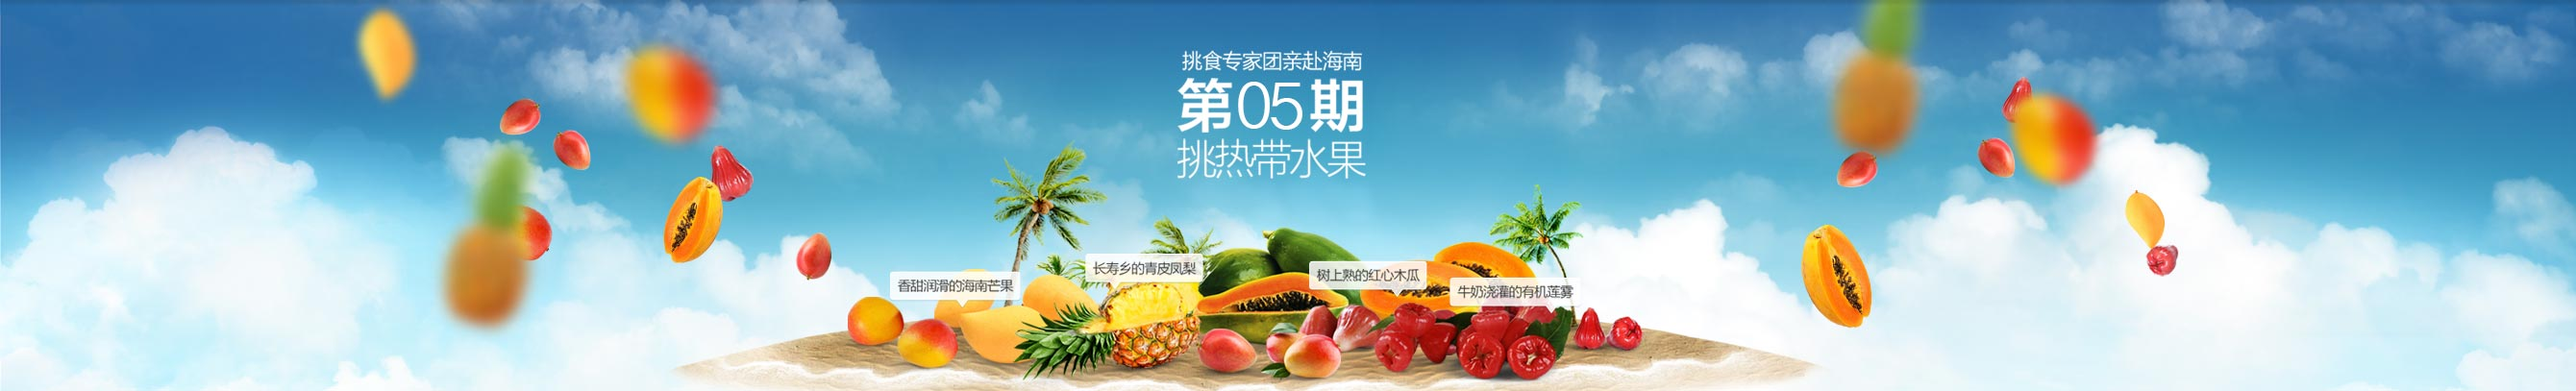
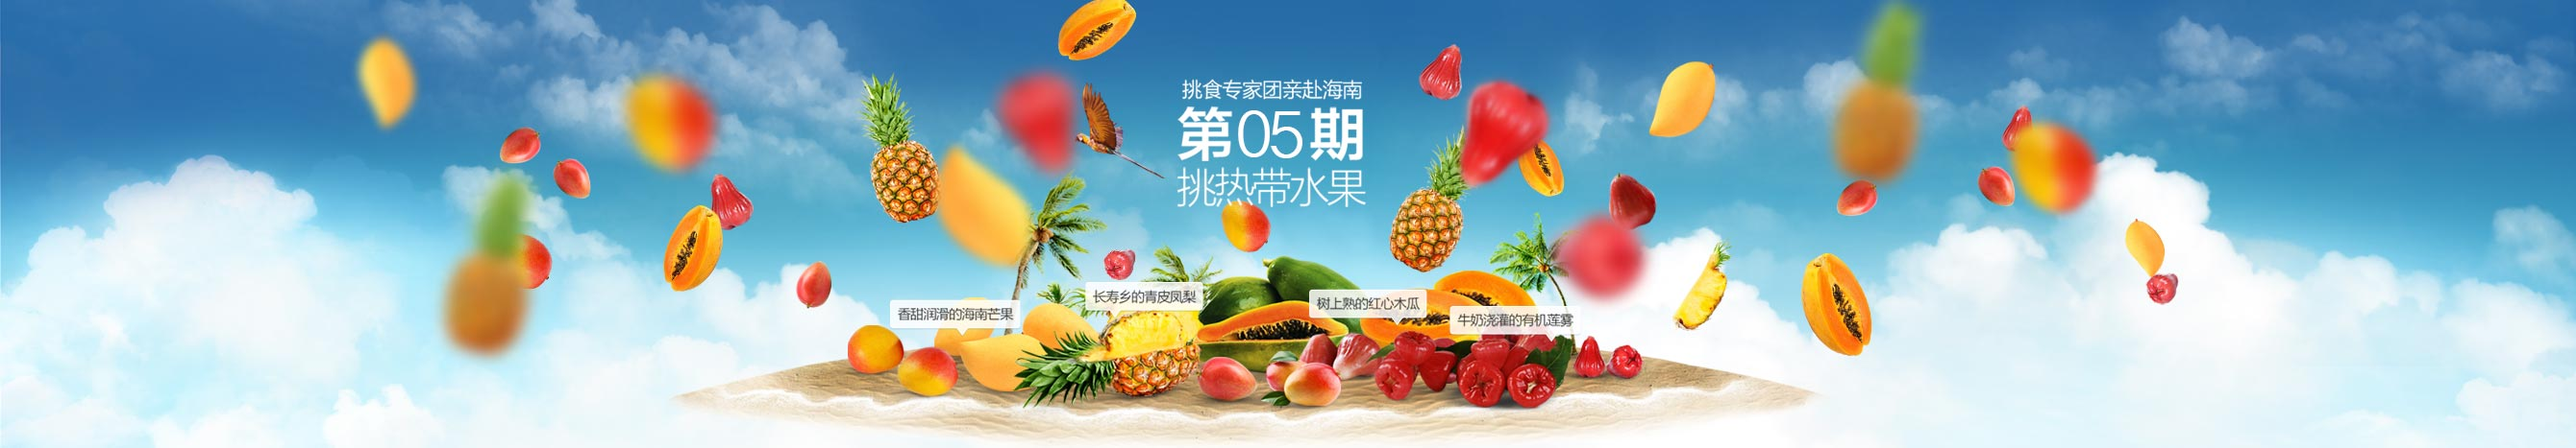
动画中增加了没有美感的动画

diff --git a/1.0/build/index-min.js b/1.0/build/index-min.js
@@ -1,2 +1,2 @@
-/*!build time : 2014-05-26 8:34:28 PM*/
-KISSY.add("gallery/parallax/1.0/helpers",["dom"],function(a,b,c,d){function e(a){for(var b=document.createElement("div"),c=!1,d=null,e=!1,f=null,g=null,i=0,j=h.length;j>i;i++)if(null!==h[i]?(f=h[i][0]+"transform",g=h[i][1]+"Transform"):(f="transform",g="transform"),void 0!==b.style[g]){c=!0;break}switch(a){case"2D":e=c;break;case"3D":if(c){var k=document.body||document.createElement("body"),l=document.documentElement,m=l.style.overflow;document.body||(l.style.overflow="hidden",l.appendChild(k),k.style.overflow="hidden",k.style.background=""),k.appendChild(b),b.style[g]="translate3d(1px,1px,1px)",d=window.getComputedStyle(b).getPropertyValue(f),e=void 0!==d&&d.length>0&&"none"!==d,l.style.overflow=m,k.removeChild(b)}}return e}function f(a){for(var b=0,c=a.length;c>b;b++){var d=a[b];g.css(d,"transform","translate3d(0,0,0)"),g.css(d,"transform-style","preserve-3d"),g.css(d,"backface-visibility","hidden")}}var g=b("dom"),h=[null,["-webkit-","webkit"],["-moz-","Moz"],["-o-","O"],["-ms-","ms"]];d.exports.transformSupport=e,d.exports.accelerate3D=f;var i,j;!function(){for(var a=0,b=["ms","moz","webkit","o"],c=window.requestAnimationFrame,d=window.cancelAnimationFrame,e=0;e<b.length&&!c;++e)c=window[b[e]+"RequestAnimationFrame"],d=window[b[e]+"CancelAnimationFrame"]||window[b[e]+"CancelRequestAnimationFrame"];i=c||function(b){var c=(new Date).getTime(),d=Math.max(0,16-(c-a)),e=window.setTimeout(function(){b(c+d)},d);return a=c+d,e},j=d||function(a){clearTimeout(a)}}(),d.exports.requestAnimationFrame=i,d.exports.cancelAnimationFrame=j}),KISSY.add("gallery/parallax/1.0/index",["node","dom","event","./helpers"],function(a,b){"use strict";function c(b,c){{var d=a.all(b);this.element=d[0]}this.$context=d,this.$layers=this.$context.all(".layer"),a.mix(this,a.mix(a.clone(g),c)),this.calibrationTimer=null,this.enabled=!1,this.depths=[],this.raf=null,this.bounds=null,this.ex=0,this.ey=0,this.ew=0,this.eh=0,this.ecx=0,this.ecy=0,this.erx=0,this.ery=0,this.ix=0,this.iy=0,this.mx=0,this.my=0,this.vx=0,this.vy=0,this.onMouseMove=a.bind(this.onMouseMove,this),this.onWindowResize=a.bind(this.onWindowResize,this),this.onAnimationFrame=a.bind(this.onAnimationFrame,this),this.initialise()}var d=(b("node"),b("dom")),e=b("event"),f=b("./helpers"),g={calibrationDelay:500,scalarX:10,scalarY:10,frictionX:.1,frictionY:.1,originX:.5,originY:.5},h=f.requestAnimationFrame,i=f.cancelAnimationFrame;return c.prototype.ww=null,c.prototype.wh=null,c.prototype.wcx=null,c.prototype.wcy=null,c.prototype.wrx=null,c.prototype.wry=null,c.prototype.transform2DSupport=f.transformSupport("2D"),c.prototype.transform3DSupport=f.transformSupport("3D"),c.prototype.initialise=function(){"static"===this.$context.css("position")&&this.$context.css({position:"relative"}),f.accelerate3D(this.$context),this.updateLayers(),this.updateDimensions(),this.enable(),this.queueCalibration(this.calibrationDelay)},c.prototype.updateLayers=function(){this.$layers=this.$context.all(".layer"),this.depths=[],this.$layers.css({position:"absolute",display:"block",left:0,top:0}),this.$layers.slice(0,1).css({position:"relative"}),f.accelerate3D(this.$layers),this.$layers.each(a.bind(function(b){var c=parseFloat(a.all(b).attr("data-depth"),10);this.depths.push(c||0)},this))},c.prototype.updateDimensions=function(){this.ww=window.innerWidth,this.wh=window.innerHeight,this.wcx=this.ww*this.originX,this.wcy=this.wh*this.originY,this.wrx=Math.max(this.wcx,this.ww-this.wcx),this.wry=Math.max(this.wcy,this.wh-this.wcy)},c.prototype.updateBounds=function(){this.bounds=this.element.getBoundingClientRect(),this.ex=this.bounds.left,this.ey=this.bounds.top,this.ew=this.bounds.width,this.eh=this.bounds.height,this.ecx=this.ew*this.originX,this.ecy=this.eh*this.originY,this.erx=Math.max(this.ecx,this.ew-this.ecx),this.ery=Math.max(this.ecy,this.eh-this.ecy)},c.prototype.queueCalibration=function(a){clearTimeout(this.calibrationTimer),this.calibrationTimer=setTimeout(this.onCalibrationTimer,a)},c.prototype.enable=function(){this.enabled||(this.enabled=!0,e.on(window,"mousemove",this.onMouseMove),e.on(window,"resize",this.onWindowResize),this.raf=h(this.onAnimationFrame))},c.prototype.disable=function(){this.enabled&&(this.enabled=!1,window.removeEventListener("mousemove",this.onMouseMove),window.removeEventListener("resize",this.onWindowResize),i(this.raf))},c.prototype.setPosition=function(a,b,c){b+="px",c+="px",this.transform3DSupport?d.css(a,"transform","translate3d("+b+","+c+",0)"):this.transform2DSupport?d.css(a,"transform","translate("+b+","+c+")"):(a.style.left=b,a.style.top=c)},c.prototype.onWindowResize=function(){this.updateDimensions()},c.prototype.onAnimationFrame=function(){this.updateBounds(),this.mx=this.ix*this.ew*(this.scalarX/100)*-1,this.my=this.iy*this.eh*(this.scalarY/100)*-1,this.vx+=(this.mx-this.vx)*this.frictionX,this.vy+=(this.my-this.vy)*this.frictionY;for(var a=0,b=this.$layers.length;b>a;a++){var c=this.depths[a],d=this.$layers[a],e=this.vx*c,f=this.vy*c;this.setPosition(d,e,f)}this.raf=h(this.onAnimationFrame)},c.prototype.onMouseMove=function(a){var b=a.clientX,c=a.clientY;this.ix=(b-this.wcx)/this.wrx,this.iy=(c-this.wcy)/this.wry},c});
+/*!build time : 2014-05-26 11:45:19 PM*/
+KISSY.add("gallery/parallax/1.0/helpers",["dom"],function(a,b,c,d){function e(a){for(var b=document.createElement("div"),c=!1,d=null,e=!1,f=null,g=null,i=0,j=h.length;j>i;i++)if(null!==h[i]?(f=h[i][0]+"transform",g=h[i][1]+"Transform"):(f="transform",g="transform"),void 0!==b.style[g]){c=!0;break}switch(a){case"2D":e=c;break;case"3D":if(c){var k=document.body||document.createElement("body"),l=document.documentElement,m=l.style.overflow;document.body||(l.style.overflow="hidden",l.appendChild(k),k.style.overflow="hidden",k.style.background=""),k.appendChild(b),b.style[g]="translate3d(1px,1px,1px)",d=window.getComputedStyle(b).getPropertyValue(f),e=void 0!==d&&d.length>0&&"none"!==d,l.style.overflow=m,k.removeChild(b)}}return e}function f(a){for(var b=0,c=a.length;c>b;b++){var d=a[b];g.css(d,"transform","translate3d(0,0,0)"),g.css(d,"transform-style","preserve-3d"),g.css(d,"backface-visibility","hidden")}}var g=b("dom"),h=[null,["-webkit-","webkit"],["-moz-","Moz"],["-o-","O"],["-ms-","ms"]];d.exports.transformSupport=e,d.exports.accelerate3D=f;var i,j;!function(){for(var a=0,b=["ms","moz","webkit","o"],c=window.requestAnimationFrame,d=window.cancelAnimationFrame,e=0;e<b.length&&!c;++e)c=window[b[e]+"RequestAnimationFrame"],d=window[b[e]+"CancelAnimationFrame"]||window[b[e]+"CancelRequestAnimationFrame"];i=c||function(b){var c=(new Date).getTime(),d=Math.max(0,16-(c-a)),e=window.setTimeout(function(){b(c+d)},d);return a=c+d,e},j=d||function(a){clearTimeout(a)}}(),d.exports.requestAnimationFrame=i,d.exports.cancelAnimationFrame=j}),KISSY.add("gallery/parallax/1.0/index",["node","dom","event","./helpers"],function(a,b){"use strict";function c(b,c){{var d=a.all(b);this.element=d[0]}this.$context=d,this.$layers=this.$context.all(".layer"),a.mix(this,a.mix(a.clone(g),c)),this.calibrationTimer=null,this.enabled=!1,this.layersCache=[],this.raf=null,this.bounds=null,this.ex=0,this.ey=0,this.ew=0,this.eh=0,this.ecx=0,this.ecy=0,this.erx=0,this.ery=0,this.ix=0,this.iy=0,this.mx=0,this.my=0,this.vx=0,this.vy=0,this.onMouseMove=a.bind(this.onMouseMove,this),this.onWindowResize=a.bind(this.onWindowResize,this),this.onAnimationFrame=a.bind(this.onAnimationFrame,this),this.initialise()}var d=(b("node"),b("dom")),e=b("event"),f=b("./helpers"),g={calibrationDelay:500,scalarX:10,scalarY:10,frictionX:.1,frictionY:.1,originX:.5,originY:.5},h=f.requestAnimationFrame,i=f.cancelAnimationFrame;return c.prototype.ww=null,c.prototype.wh=null,c.prototype.wcx=null,c.prototype.wcy=null,c.prototype.wrx=null,c.prototype.wry=null,c.prototype.transform2DSupport=f.transformSupport("2D"),c.prototype.transform3DSupport=f.transformSupport("3D"),c.prototype.initialise=function(){"static"===this.$context.css("position")&&this.$context.css({position:"relative"}),f.accelerate3D(this.$context),this.updateLayers(),this.updateDimensions(),this.enable(),this.queueCalibration(this.calibrationDelay)},c.prototype.updateLayers=function(){this.$layers=this.$context.all(".layer"),this.layersCache=[],this.$layers.css({position:"absolute",display:"block",left:0,top:0}),this.$layers.slice(0,1).css({position:"relative"}),f.accelerate3D(this.$layers),this.$layers.each(a.bind(function(b){var c=a.all(b),d=parseFloat(c.attr("data-depth"),10),e=parseFloat(c.attr("data-limit-y"),10),f=parseFloat(c.attr("data-limit-x"),10);this.layersCache.push({depth:d||0,limitY:e||null,limitX:f||null})},this))},c.prototype.updateDimensions=function(){this.ww=window.innerWidth,this.wh=window.innerHeight,this.wcx=this.ww*this.originX,this.wcy=this.wh*this.originY,this.wrx=Math.max(this.wcx,this.ww-this.wcx),this.wry=Math.max(this.wcy,this.wh-this.wcy)},c.prototype.updateBounds=function(){this.bounds=this.element.getBoundingClientRect(),this.ex=this.bounds.left,this.ey=this.bounds.top,this.ew=this.bounds.width,this.eh=this.bounds.height,this.ecx=this.ew*this.originX,this.ecy=this.eh*this.originY,this.erx=Math.max(this.ecx,this.ew-this.ecx),this.ery=Math.max(this.ecy,this.eh-this.ecy)},c.prototype.queueCalibration=function(a){clearTimeout(this.calibrationTimer),this.calibrationTimer=setTimeout(this.onCalibrationTimer,a)},c.prototype.enable=function(){this.enabled||(this.enabled=!0,e.on(window,"mousemove",this.onMouseMove),e.on(window,"resize",this.onWindowResize),this.raf=h(this.onAnimationFrame))},c.prototype.disable=function(){this.enabled&&(this.enabled=!1,window.removeEventListener("mousemove",this.onMouseMove),window.removeEventListener("resize",this.onWindowResize),i(this.raf))},c.prototype.setPosition=function(a,b,c){b+="px",c+="px",this.transform3DSupport?d.css(a,"transform","translate3d("+b+","+c+",0)"):this.transform2DSupport?d.css(a,"transform","translate("+b+","+c+")"):(a.style.left=b,a.style.top=c)},c.prototype.onWindowResize=function(){this.updateDimensions()},c.prototype.onAnimationFrame=function(){this.updateBounds(),this.mx=this.ix*this.ew*(this.scalarX/100)*-1,this.my=this.iy*this.eh*(this.scalarY/100)*-1;var a=(this.mx-this.vx)*this.frictionX,b=(this.my-this.vy)*this.frictionY;if(this.vx+=a,this.vy+=b,Math.abs(a)>.01&&Math.abs(b)>.01)for(var c=0,d=this.$layers.length;d>c;c++){var e=this.layersCache[c].depth,f=this.layersCache[c].limitX,g=this.layersCache[c].limitY,i=this.$layers[c],j=this.vx*e,k=this.vy*e;f&&j>0&&(j=Math.min(f,j)),f&&0>j&&(j=Math.max(-f,j)),g&&k>0&&(k=Math.min(g,k)),g&&0>k&&(k=Math.max(-g,k)),this.setPosition(i,j,k)}this.raf=h(this.onAnimationFrame)},c.prototype.onMouseMove=function(a){var b=a.clientX,c=a.clientY;this.ix=(b-this.wcx)/this.wrx,this.iy=(c-this.wcy)/this.wry},c});

diff --git a/1.0/build/index.js b/1.0/build/index.js
@@ -147,7 +147,7 @@ KISSY.add('gallery/parallax/1.0/index',['node', 'dom', 'event', './helpers'], fu
         // States
         this.calibrationTimer = null;
         this.enabled = false;
-        this.depths = [];
+        this.layersCache = [];
         this.raf = null;
 
         // Element Bounds
@@ -219,7 +219,7 @@ KISSY.add('gallery/parallax/1.0/index',['node', 'dom', 'event', './helpers'], fu
 
         // Cache Layer Elements
         this.$layers = this.$context.all('.layer');
-        this.depths = [];
+        this.layersCache = [];
 
         // Configure Layer Styles
         this.$layers.css({
@@ -237,8 +237,15 @@ KISSY.add('gallery/parallax/1.0/index',['node', 'dom', 'event', './helpers'], fu
 
         // Cache Depths
         this.$layers.each(S.bind(function (element, index) {
-            var depth = parseFloat(S.all(element).attr('data-depth'), 10);
-            this.depths.push(depth || 0);
+            var $ele = S.all(element);
+            var depth = parseFloat($ele.attr('data-depth'), 10);
+            var limitY = parseFloat($ele.attr('data-limit-y'), 10);
+            var limitX = parseFloat($ele.attr('data-limit-x'), 10);
+            this.layersCache.push({
+                depth  : depth||0,
+                limitY : limitY||null,
+                limitX : limitX||null
+            });
         }, this));
     };
 
@@ -310,15 +317,37 @@ KISSY.add('gallery/parallax/1.0/index',['node', 'dom', 'event', './helpers'], fu
         this.mx = this.ix * this.ew * (this.scalarX / 100) * -1;
         this.my = this.iy * this.eh * (this.scalarY / 100) * -1;
 
-        this.vx += (this.mx - this.vx) * this.frictionX;
-        this.vy += (this.my - this.vy) * this.frictionY;
+        var vxInc = (this.mx - this.vx) * this.frictionX;
+        var vyInc = (this.my - this.vy) * this.frictionY;
+        this.vx += vxInc;
+        this.vy += vyInc;
 
-        for (var i = 0, l = this.$layers.length; i < l; i++) {
-            var depth = this.depths[i];
-            var layer = this.$layers[i];
-            var xOffset = this.vx * depth;
-            var yOffset = this.vy * depth;
-            this.setPosition(layer, xOffset, yOffset);
+
+        if(Math.abs(vxInc) > 0.01 &&  Math.abs(vyInc) > 0.01){
+
+            for (var i = 0, l = this.$layers.length; i < l; i++) {
+                var depth = this.layersCache[i].depth;
+                var limitX = this.layersCache[i].limitX;
+                var limitY = this.layersCache[i].limitY;
+                var layer = this.$layers[i];
+                var xOffset = this.vx * depth;
+                var yOffset = this.vy * depth;
+
+                if(limitX && xOffset > 0){
+                    xOffset = Math.min(limitX, xOffset);
+                }
+                if(limitX && xOffset < 0){
+                    xOffset = Math.max(-limitX, xOffset);
+                }
+                if(limitY && yOffset > 0){
+                    yOffset = Math.min(limitY, yOffset);
+                }
+                if(limitY && yOffset < 0){
+                    yOffset = Math.max(-limitY, yOffset);
+                }
+
+                this.setPosition(layer, xOffset, yOffset);
+            }
         }
 
         this.raf = requestAnimationFrame(this.onAnimationFrame);
@@ -343,3 +372,4 @@ KISSY.add('gallery/parallax/1.0/index',['node', 'dom', 'event', './helpers'], fu
     return Plugin;
 
 });
+

diff --git a/1.0/index.js b/1.0/index.js
@@ -36,7 +36,7 @@ KISSY.add(function(S,require,exports,module){
         // States
         this.calibrationTimer = null;
         this.enabled = false;
-        this.depths = [];
+        this.layersCache = [];
         this.raf = null;
 
         // Element Bounds
@@ -108,7 +108,7 @@ KISSY.add(function(S,require,exports,module){
 
         // Cache Layer Elements
         this.$layers = this.$context.all('.layer');
-        this.depths = [];
+        this.layersCache = [];
 
         // Configure Layer Styles
         this.$layers.css({
@@ -126,8 +126,15 @@ KISSY.add(function(S,require,exports,module){
 
         // Cache Depths
         this.$layers.each(S.bind(function (element, index) {
-            var depth = parseFloat(S.all(element).attr('data-depth'), 10);
-            this.depths.push(depth || 0);
+            var $ele = S.all(element);
+            var depth = parseFloat($ele.attr('data-depth'), 10);
+            var limitY = parseFloat($ele.attr('data-limit-y'), 10);
+            var limitX = parseFloat($ele.attr('data-limit-x'), 10);
+            this.layersCache.push({
+                depth  : depth||0,
+                limitY : limitY||null,
+                limitX : limitX||null
+            });
         }, this));
     };
 
@@ -199,15 +206,37 @@ KISSY.add(function(S,require,exports,module){
         this.mx = this.ix * this.ew * (this.scalarX / 100) * -1;
         this.my = this.iy * this.eh * (this.scalarY / 100) * -1;
 
-        this.vx += (this.mx - this.vx) * this.frictionX;
-        this.vy += (this.my - this.vy) * this.frictionY;
+        var vxInc = (this.mx - this.vx) * this.frictionX;
+        var vyInc = (this.my - this.vy) * this.frictionY;
+        this.vx += vxInc;
+        this.vy += vyInc;
 
-        for (var i = 0, l = this.$layers.length; i < l; i++) {
-            var depth = this.depths[i];
-            var layer = this.$layers[i];
-            var xOffset = this.vx * depth;
-            var yOffset = this.vy * depth;
-            this.setPosition(layer, xOffset, yOffset);
+
+        if(Math.abs(vxInc) > 0.01 &&  Math.abs(vyInc) > 0.01){
+
+            for (var i = 0, l = this.$layers.length; i < l; i++) {
+                var depth = this.layersCache[i].depth;
+                var limitX = this.layersCache[i].limitX;
+                var limitY = this.layersCache[i].limitY;
+                var layer = this.$layers[i];
+                var xOffset = this.vx * depth;
+                var yOffset = this.vy * depth;
+
+                if(limitX && xOffset > 0){
+                    xOffset = Math.min(limitX, xOffset);
+                }
+                if(limitX && xOffset < 0){
+                    xOffset = Math.max(-limitX, xOffset);
+                }
+                if(limitY && yOffset > 0){
+                    yOffset = Math.min(limitY, yOffset);
+                }
+                if(limitY && yOffset < 0){
+                    yOffset = Math.max(-limitY, yOffset);
+                }
+
+                this.setPosition(layer, xOffset, yOffset);
+            }
         }
 
         this.raf = requestAnimationFrame(this.onAnimationFrame);

diff --git a/1.0/demo/styles/styles.css b/1.0/demo/styles/styles.css
@@ -17,8 +17,20 @@ html, body {
     background-repeat: no-repeat;
 }
 
-.parallax-root .layer{
-    display: none;
+
+.parallax-root .layer img{
+    -webkit-animation-duration: 15s;
+    -webkit-animation-timing-function: ease-out;
+    -webkit-animation-iteration-count: infinite;
+    -webkit-animation-fill-mode: forwards;
+    -webkit-animation-direction: alternate;
+}
+
+.parallax-root .layer:nth-child(2) img{
+    -webkit-animation-name: line1;
+}
+.parallax-root .layer:nth-child(3) img{
+    -webkit-animation-name: line2;
 }
 
 .parallax-root .scene{
@@ -26,3 +38,45 @@ html, body {
     position: absolute;
 }
 
+
+@-webkit-keyframes line1 {
+    0% {
+        -webkit-transform:translate(-10px , -5px);
+    }
+    20%{
+        -webkit-transform:translate(-15px , -15px);
+    }
+    40%{
+        -webkit-transform:translate(-25px , -25px);
+    }
+    50%{
+        -webkit-transform:translate(-30px , -30px);
+    }
+    80%{
+        -webkit-transform:translate(-15px , -15px);
+    }
+    10%{
+        -webkit-transform:translate(-25px , -25px);
+    }
+}
+
+@-webkit-keyframes line2 {
+    0% {
+        -webkit-transform:translate(10px , 5px);
+    }
+    20%{
+        -webkit-transform:translate(15px , 15px);
+    }
+    40%{
+        -webkit-transform:translate(25px , 25px);
+    }
+    50%{
+        -webkit-transform:translate(30px , 30px);
+    }
+    80%{
+        -webkit-transform:translate(15px , 15px);
+    }
+    10%{
+        -webkit-transform:translate(25px , 25px);
+    }
+}

diff --git a/1.0/demo/index.html b/1.0/demo/index.html
@@ -7,9 +7,9 @@
     </head>
     <body>
 
-        <div class="parallax-root" style="background-image:url(images/bg.jpg); height: 407px">
+        <div class="parallax-root" style="height: 407px; visibility: hidden">
             <div class="parallax-scene scene" style="width: 2680px;">
-                <div class="layer" data-depth="0.2" style="width: 2680px;"><img src="images/bg.jpg"></div>
+                <div class="layer" data-depth="0.2" data-limit-y="30" style="width: 2680px; margin-top: -30px; "><img src="images/bg.jpg"></div>
                 <div class="layer" data-depth="0.4" style="width: 2680px;"><img src="images/fruit-clearness.png"></div>
                 <div class="layer" data-depth="1.0" style="width: 2680px;"><img src="images/fruit-blur.png"></div>
             </div>
@@ -32,7 +32,10 @@
                 function onResize(){
                     $root.scrollLeft(($scene.width() - $root.width()) / 2 );
                 }
+
+                $root.css("visibility","visible")
                 onResize();
+
                 S.all(window).on("resize", onResize);
                 new Parallax(".parallax-scene", {
                     frictionY : 0.05,
